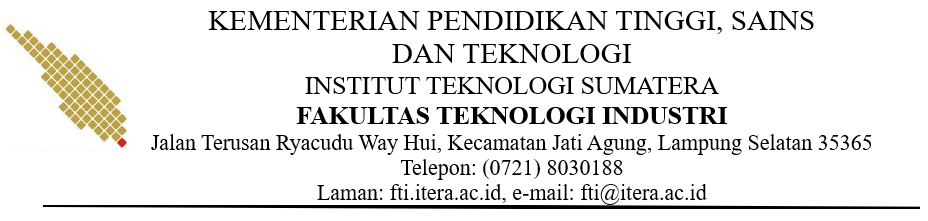
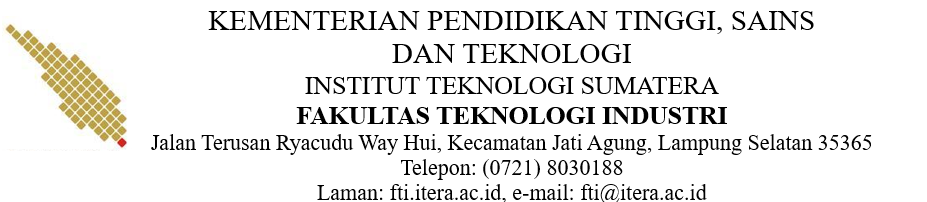
update

Changed region(s): [[0.0, 0.1188, 0.9968, 1.0], [0.2114, 0.0297, 0.8759, 0.1485]]

diff --git a/resources/views/admin/transaksi/peminjaman/pdf/index.blade.php b/resources/views/admin/transaksi/peminjaman/pdf/index.blade.php
@@ -7,7 +7,7 @@
     <style>
         body {
             font-family: 'Times New Roman', Times, serif;
-            font-size: 14px;
+            font-size: 16px;
             line-height: 1.5;
         }
 
@@ -46,7 +46,7 @@
 
         .signature-1 {
             text-align: left;
-            margin: 80mm 20mm 0mm 20mm;
+            margin: 40mm 20mm 0mm 20mm;
         }
 
         .signature-2 {
@@ -75,49 +75,68 @@
         .alat-table th {
             background-color: #f9f9f9;
         }
+
+        .footer {
+            width: 60%;
+            position: fixed;
+            bottom: 0;
+            left: 0;
+            right: 0;
+            text-align: center;
+            font-size: 12px;
+            padding-top: 5px;
+        }
     </style>
 </head>
 
 <body>
 
     <div class="header">
-        <img src="{{ public_path('assets/kop-surat.png') }}" alt="" width="95%">
-        <h3>FORMULIR PEMINJAMAN ALAT LABORATORIUM</h3>
+        <img src="{{ public_path('assets/kop-surat.png') }}" alt="" width="100%">
+        <hr>
+        <h4>FORMULIR PEMINJAMAN ALAT LABORATORIUM</h4>
     </div>
 
     <div class="section">
         <p>Dengan ini menyatakan bahwa:</p>
-        <table class="no-border">
+        <table class="no-border" style="width: 100%; margin: 0mm 10mm 0mm 10mm;">
             <tr>
-                <td>Nama</td>
-                <td>: {{ $user->name ?? '-' }}</td>
+                <td style="width: 25%;">Nama</td>
+                <td style="width: 75%;">: {{ $user->name ?? '-' }}</td>
             </tr>
             <tr>
-                <td>NIM</td>
-                <td>: {{ $user->nim ?? '-' }}</td>
+                <td style="width: 25%;">NIM</td>
+                <td style="width: 75%;">: {{ $user->nim ?? '-' }}</td>
             </tr>
             <tr>
-                <td>No. HP</td>
-                <td>: {{ $user->no_hp ?? '-' }}</td>
+                <td style="width: 25%;">No. HP</td>
+                <td style="width: 75%;">: {{ $user->no_hp ?? '-' }}</td>
             </tr>
             <tr>
-                <td>Program Studi</td>
-                <td>: {{ $user->prodi ?? '-' }}</td>
+                <td style="width: 25%;">Program Studi</td>
+                <td style="width: 75%;">: {{ $user->prodi ?? '-' }}</td>
             </tr>
         </table>
 
-        <p>Mengajukan permohonan peminjaman alat laboratorium dengan rincian terlampir.</p>
-        <p>Peminjam bersedia memenuhi persyaratan yang ada di laboratorium dan jika terjadi kerusakan atau kehilangan
+        <p align="justify">Mengajukan permohonan peminjaman alat laboratorium dengan rincian terlampir.</p>
+        <p align="justify">Peminjam bersedia memenuhi persyaratan yang ada di laboratorium dan jika terjadi kerusakan
+            atau kehilangan
             barang yang dipinjam, maka peminjam bersedia untuk bertanggung jawab.</p>
     </div>
 
     <div class="signature-1">
-        <p>Lampung Selatan, .................... 20..</p>
-        <p>Peminjam,</p>
-        <br><br><br>
-        <p>{{ $user->name ?? '-' }}</p>
-        <p>{{ $user->nim ?? '-' }}</p>
+        <table class="no-border" style="width: 100%; margin-top: 20px; margin-left: 330px;">
+            <tr>
+                <td>Lampung Selatan, ....................
+                    20..<br>Peminjam,<br><br><br><br><br>{{ $user->name ?? '-' }}<br>{{ $user->nim ?? '-' }}</td>
+            </tr>
+        </table>
     </div>
+
+    <div class="footer">
+        <img width="100%" src="{{ public_path('assets/kop-surat-footer.png') }}" alt="">
+    </div>
+
 
     <div style="page-break-before: always;"></div>
 
@@ -148,7 +167,7 @@
     </div>
 
     <div class="section">
-        <h4>DAFTAR ALAT YANG DIPINJAM</h4>
+        <h4 align="center">DAFTAR ALAT YANG DIPINJAM</h4>
         <table class="alat-table">
             <thead>
                 <tr>
@@ -165,7 +184,7 @@
                 </tr>
             </thead>
             <tbody>
-                @for ($i = 1; $i <= 20; $i++)
+                @for ($i = 1; $i <= 15; $i++)
                     <tr>
                         <td>{{ $i }}</td>
                         <td></td>
